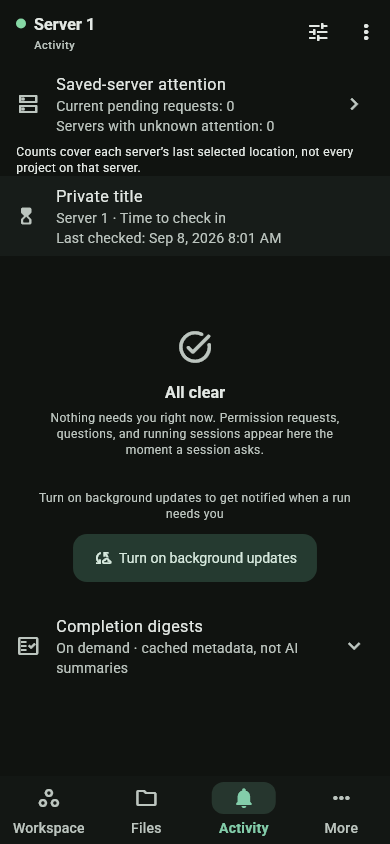
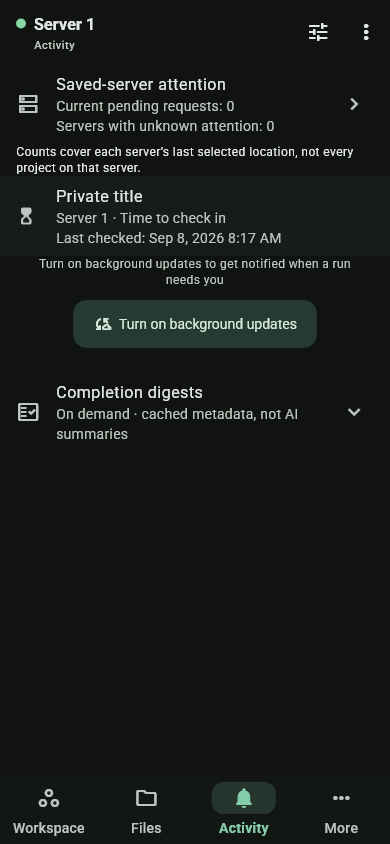
Keep Activity attention copy consistent with due check-ins [skip ci]

diff --git a/lib/ui/screens/activity_screen.dart b/lib/ui/screens/activity_screen.dart
@@ -453,6 +453,15 @@ class _ActivityScreenState extends State<ActivityScreen> {
         attentionCount == 0 &&
         running.isEmpty &&
         controller.unifiedAttentionCount == 0;
+    final hasCheckIns =
+        !controller.isIsolated &&
+        controller.store.profiles.any((profile) {
+          if (!controller.isProfileReadable(profile.id)) return false;
+          final monitor = controller.profileMonitor;
+          final snapshot = monitor.snapshotFor(profile.id);
+          return snapshot.isCurrent &&
+              snapshot.dueCheckIns(monitor.rulesFor(profile.id)).isNotEmpty;
+        });
 
     final body = RefreshIndicator(
       onRefresh: _refresh,
@@ -465,17 +474,19 @@ class _ActivityScreenState extends State<ActivityScreen> {
               physics: const AlwaysScrollableScrollPhysics(),
               children: [
                 ProfileMonitorInbox(controller: controller),
-                const SizedBox(height: 40),
-                const ProductEmptyState(
-                  key: ValueKey('activity-all-clear'),
-                  icon: Icons.task_alt_rounded,
-                  title: 'All clear',
-                  scrollable: false,
-                  message:
-                      'Nothing needs you right now. Permission requests, '
-                      'questions, and running sessions appear here the '
-                      'moment a session asks.',
-                ),
+                if (!hasCheckIns) ...[
+                  const SizedBox(height: 40),
+                  const ProductEmptyState(
+                    key: ValueKey('activity-all-clear'),
+                    icon: Icons.task_alt_rounded,
+                    title: 'All clear',
+                    scrollable: false,
+                    message:
+                        'Nothing needs you right now. Permission requests, '
+                        'questions, and running sessions appear here the '
+                        'moment a session asks.',
+                  ),
+                ],
                 // An empty inbox is only reassuring if it would fill while
                 // the app is closed; when it would not, say what to turn on.
                 if (platformCapabilities.supportsBackgroundService &&

diff --git a/test/profile_monitor_screen_test.dart b/test/profile_monitor_screen_test.dart
@@ -6,6 +6,7 @@ import 'package:opencode_mobile/l10n/app_localizations.dart';
 import 'package:opencode_mobile/state/connection.dart';
 import 'package:opencode_mobile/state/profile_monitor.dart';
 import 'package:opencode_mobile/ui/screens/profile_monitor_screen.dart';
+import 'package:opencode_mobile/ui/screens/activity_screen.dart';
 import 'support/profile_monitor_fixture.dart';
 
 Future<void> _reveal(WidgetTester tester, Finder target) async {
@@ -206,6 +207,18 @@ void main() {
         controller.profileMonitor.snapshotFor('profile-1').pendingCount,
         0,
       );
+      await tester.pumpWidget(
+        MaterialApp(
+          localizationsDelegates: AppLocalizations.localizationsDelegates,
+          supportedLocales: AppLocalizations.supportedLocales,
+          home: Scaffold(
+            body: ActivityScreen(controller: controller, embedded: true),
+          ),
+        ),
+      );
+      await tester.pump();
+      expect(find.textContaining('Time to check in'), findsOneWidget);
+      expect(find.byKey(const ValueKey('activity-all-clear')), findsNothing);
       await tester.pumpWidget(
         MaterialApp(
           localizationsDelegates: AppLocalizations.localizationsDelegates,

diff --git a/tool/capture/check_in_reminders_test.dart b/tool/capture/check_in_reminders_test.dart
@@ -108,6 +108,10 @@ void main() {
           }
           if (scenario == 'inbox') {
             expect(find.textContaining('Time to check in'), findsOneWidget);
+            expect(
+              find.byKey(const ValueKey('activity-all-clear')),
+              findsNothing,
+            );
           }
           if (scenario == 'unavailable') {
             expect(

diff --git a/docs/qa/check-in-reminders/README.md b/docs/qa/check-in-reminders/README.md
@@ -77,7 +77,11 @@ All10 capture cases were regenerated; the narrow light, dark controls and dark
 Inbox images were inspected. The independent correction reread passed at source
 level. These remain widget checks, not Android notification-delivery evidence.
 
-Visual follow-up found during integration: the Activity empty state can still
-say "All clear" beneath a due check-in row, because reminders intentionally do
-not increase the pending-request count. The coordinator is correcting that
-empty-state presentation before the final installed-app walkthrough.
+The visual follow-up is corrected: Activity no longer says "All clear" beneath
+a due check-in row. Reminders remain separate from pending-request counts.
+The source correction received independent review; the real embedded Activity
+regression passed in the combined 61-case Activity/monitor/A2A/editor/first-run/
+Tailscale/localization checkpoint above `be50da5`. Analyzer was clean (21.6s).
+Both Inbox capture cases passed and the light/dark images were inspected: the
+due row is visible, the contradictory empty state is absent, and background
+guidance and completion digests remain reachable.
